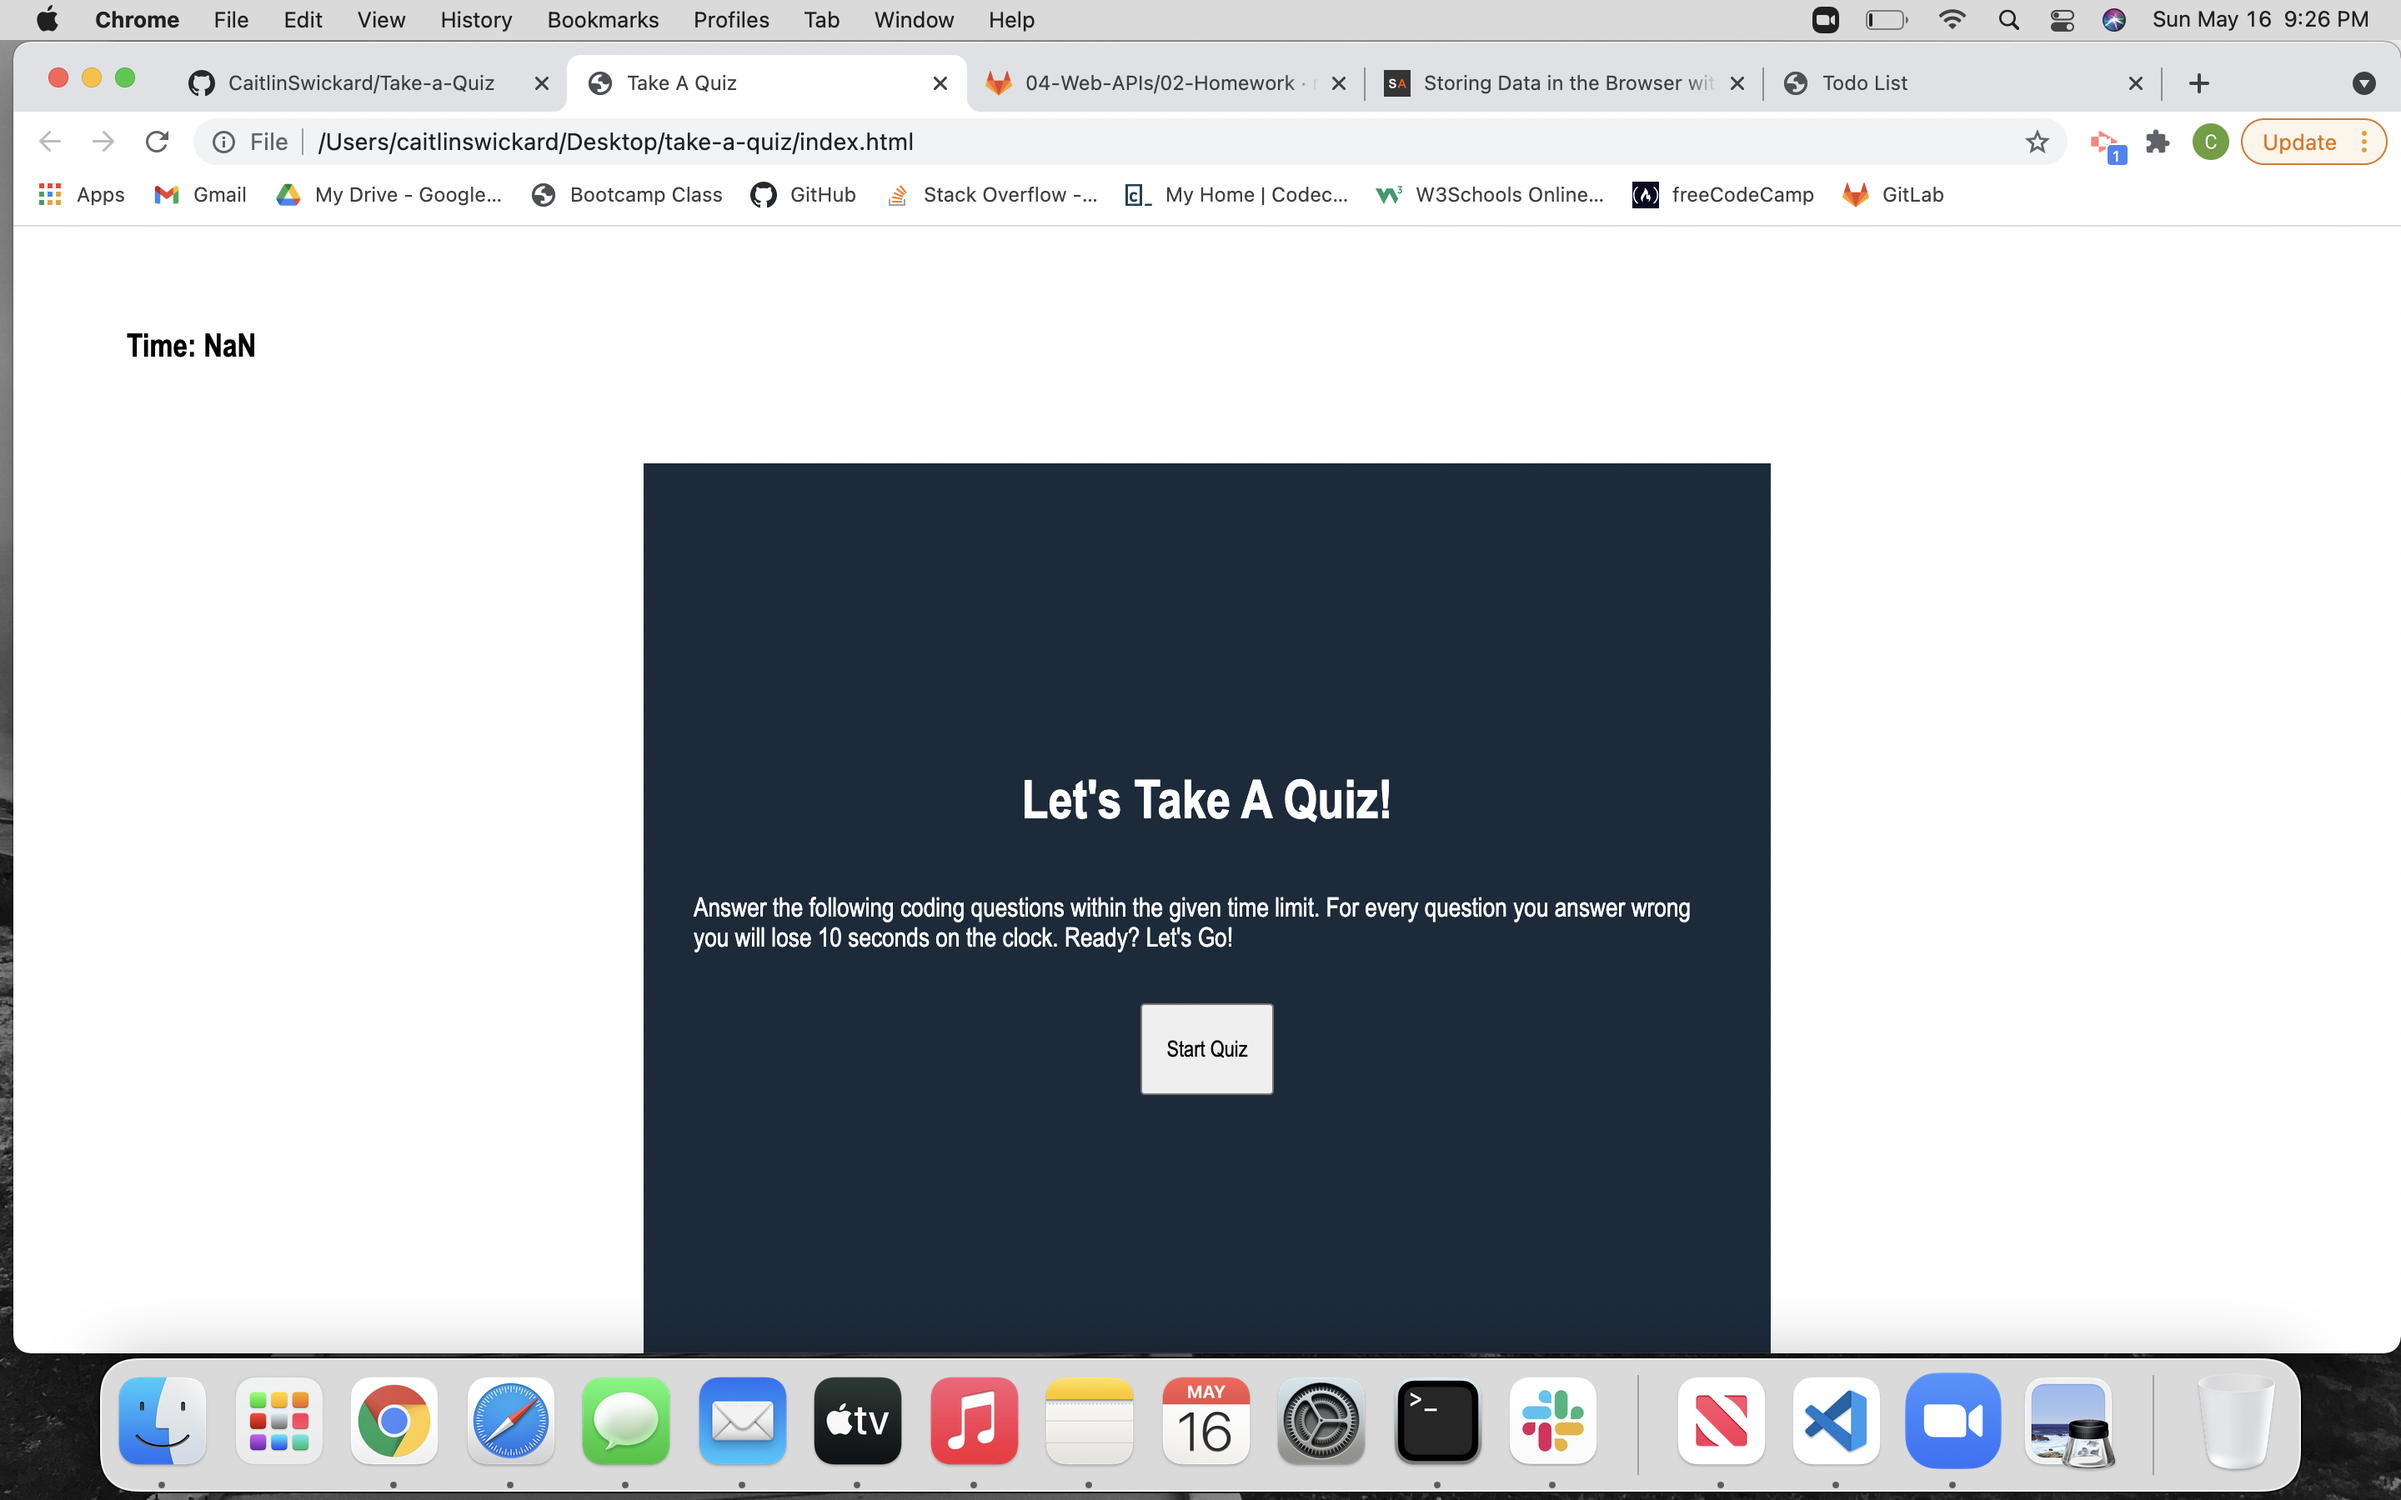
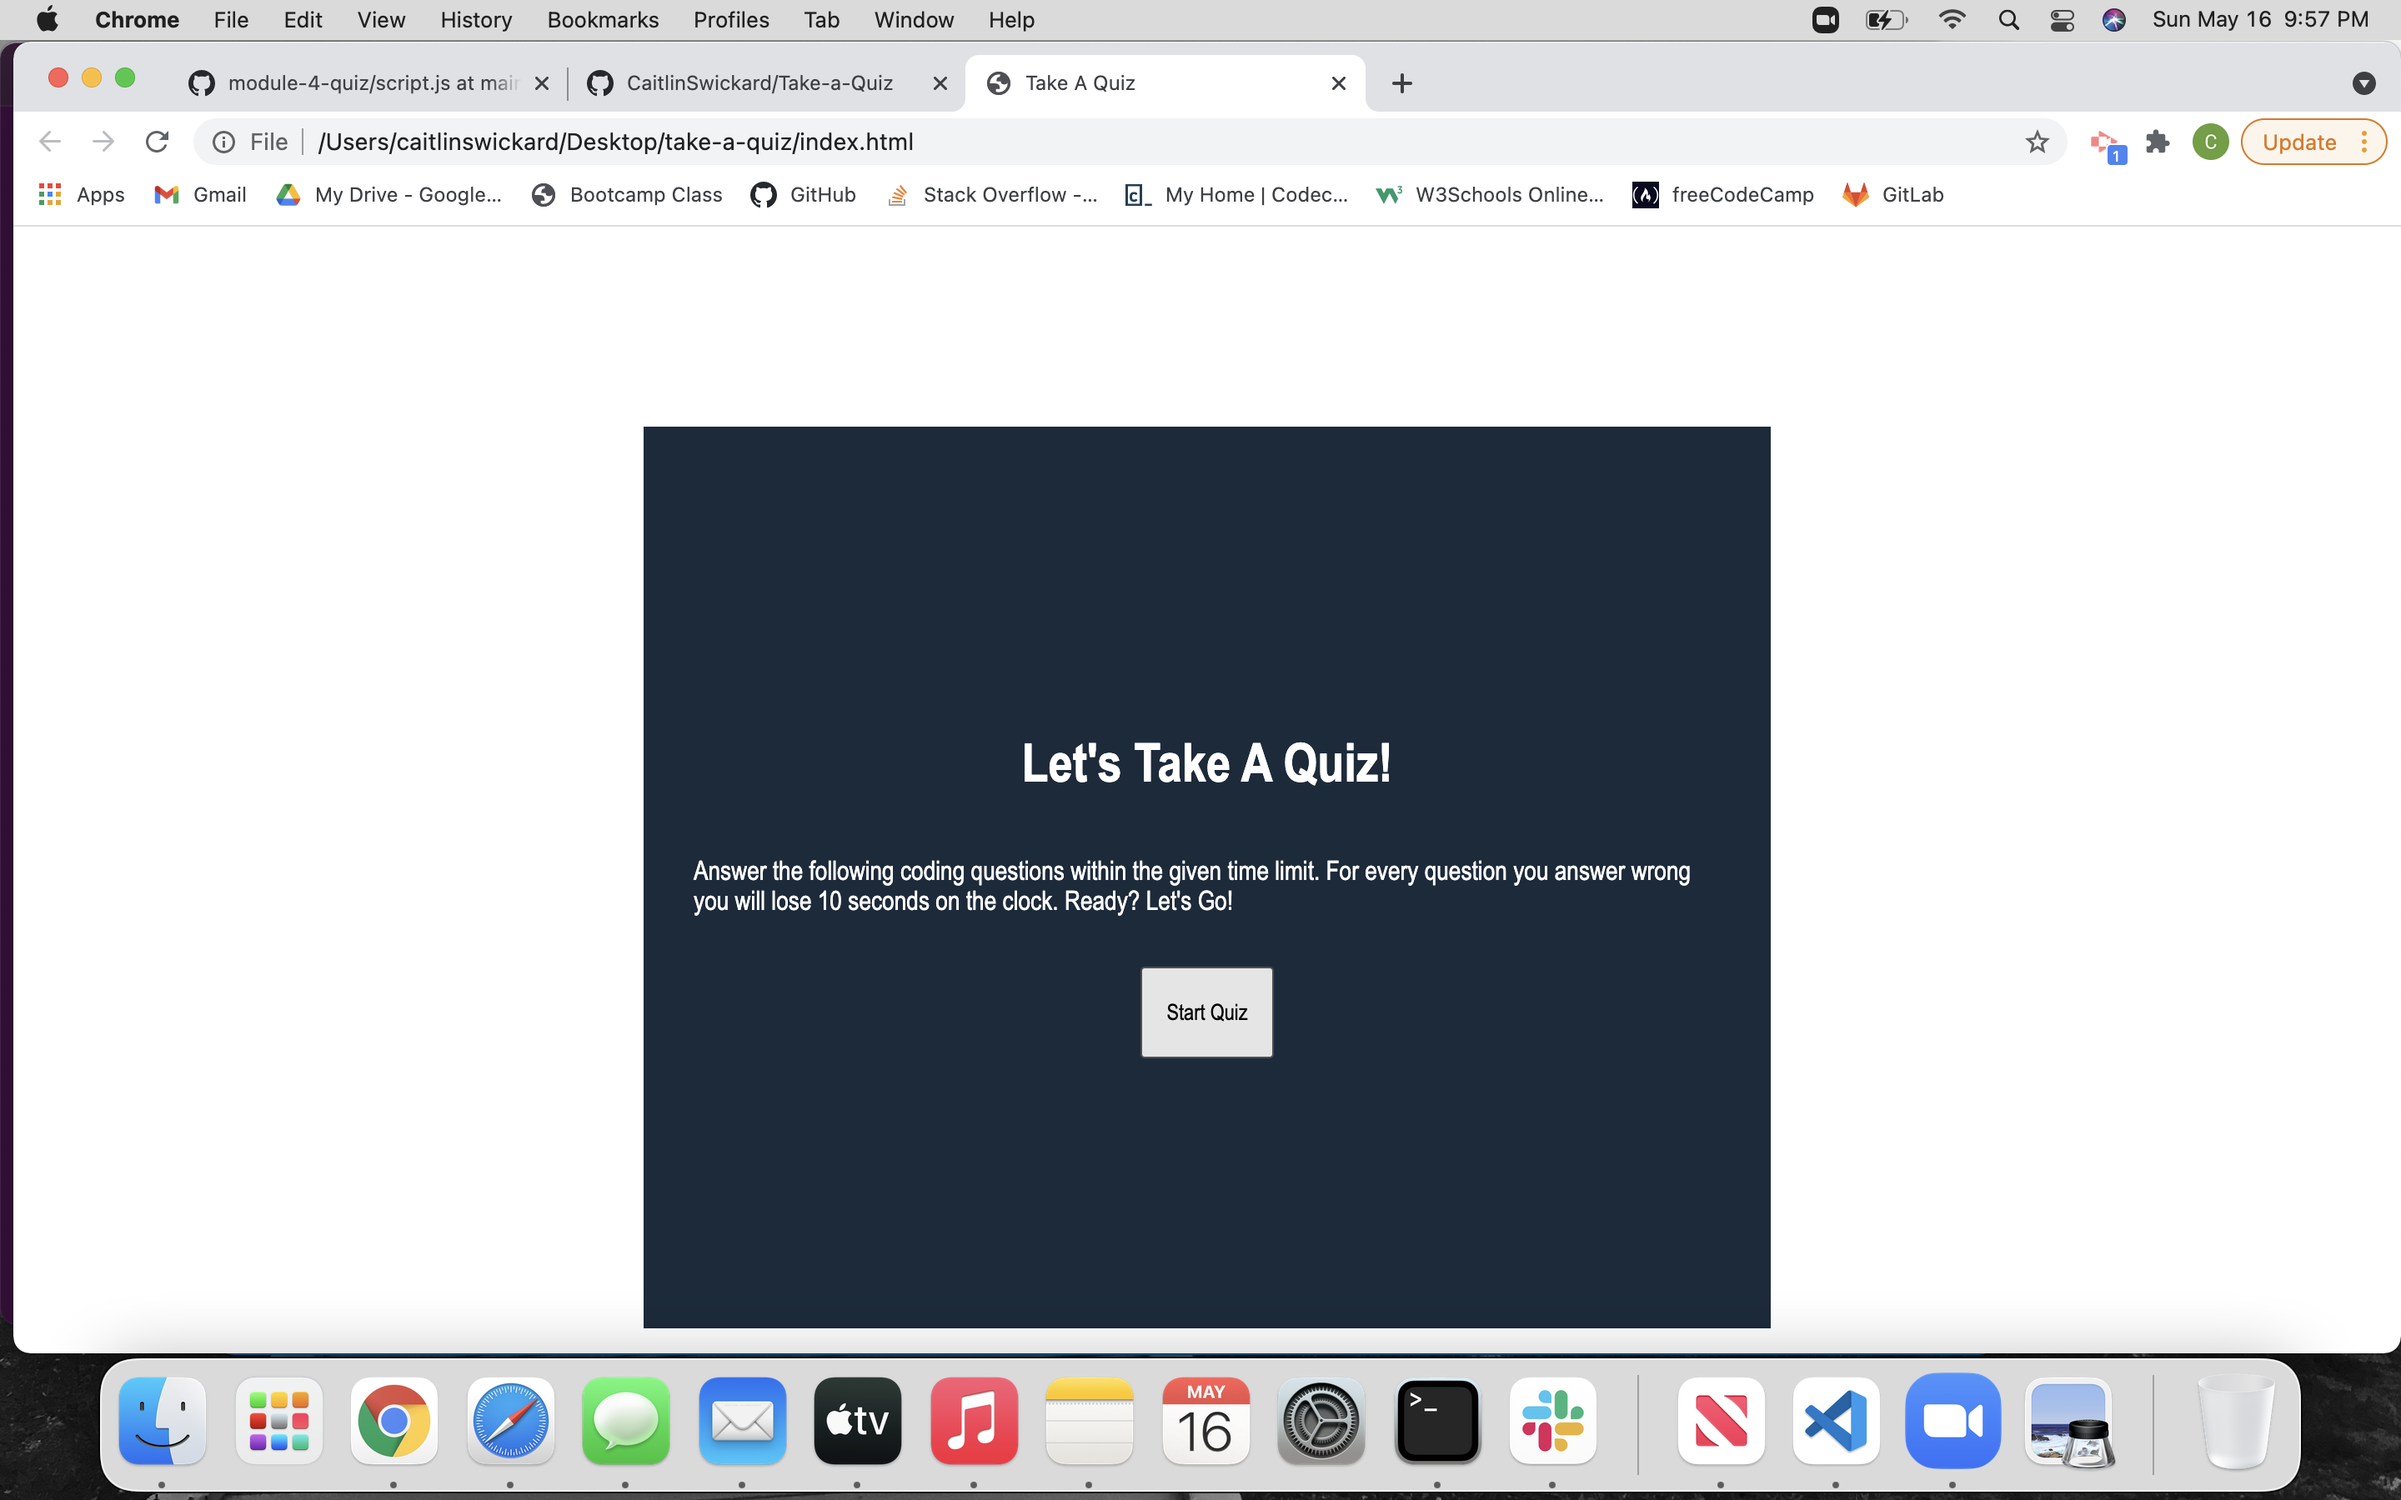
Update photo to reademe

diff --git a/script.js b/script.js
@@ -28,7 +28,7 @@ const questions = [
       '3. Function',
       '4. Loop',
     ],
-    correct: 'True'
+    correct: '1. True'
   },
   {
     question: 'How do we start flex box in css?',
@@ -38,7 +38,7 @@ const questions = [
       '3. flex-direction: row',
       '4. flex-wrap: wrap',
     ],
-    correct: 'display: flex'
+    correct: '2. display: flex'
   },
   {
     question: 'How do we include jQuery in our webpage?',
@@ -48,7 +48,7 @@ const questions = [
       '3. With a CDN',
       '4. With a method',
     ],
-    correct: 'With a CDN',
+    correct: '3. With a CDN',
   },
   {
     question: 'What does DOM stand for?',
@@ -58,13 +58,13 @@ const questions = [
       '3. Document Object Motherboard',
       '4. Document Object Model',
     ],
-    correct: 'Document Object Model',
+    correct: '4. Document Object Model',
   }
 ];
 
 
 
-let secondsLeft;
+
 // function to start timer set in a variable
 let timerInterval = setInterval(function () {
   secondsLeft--;
